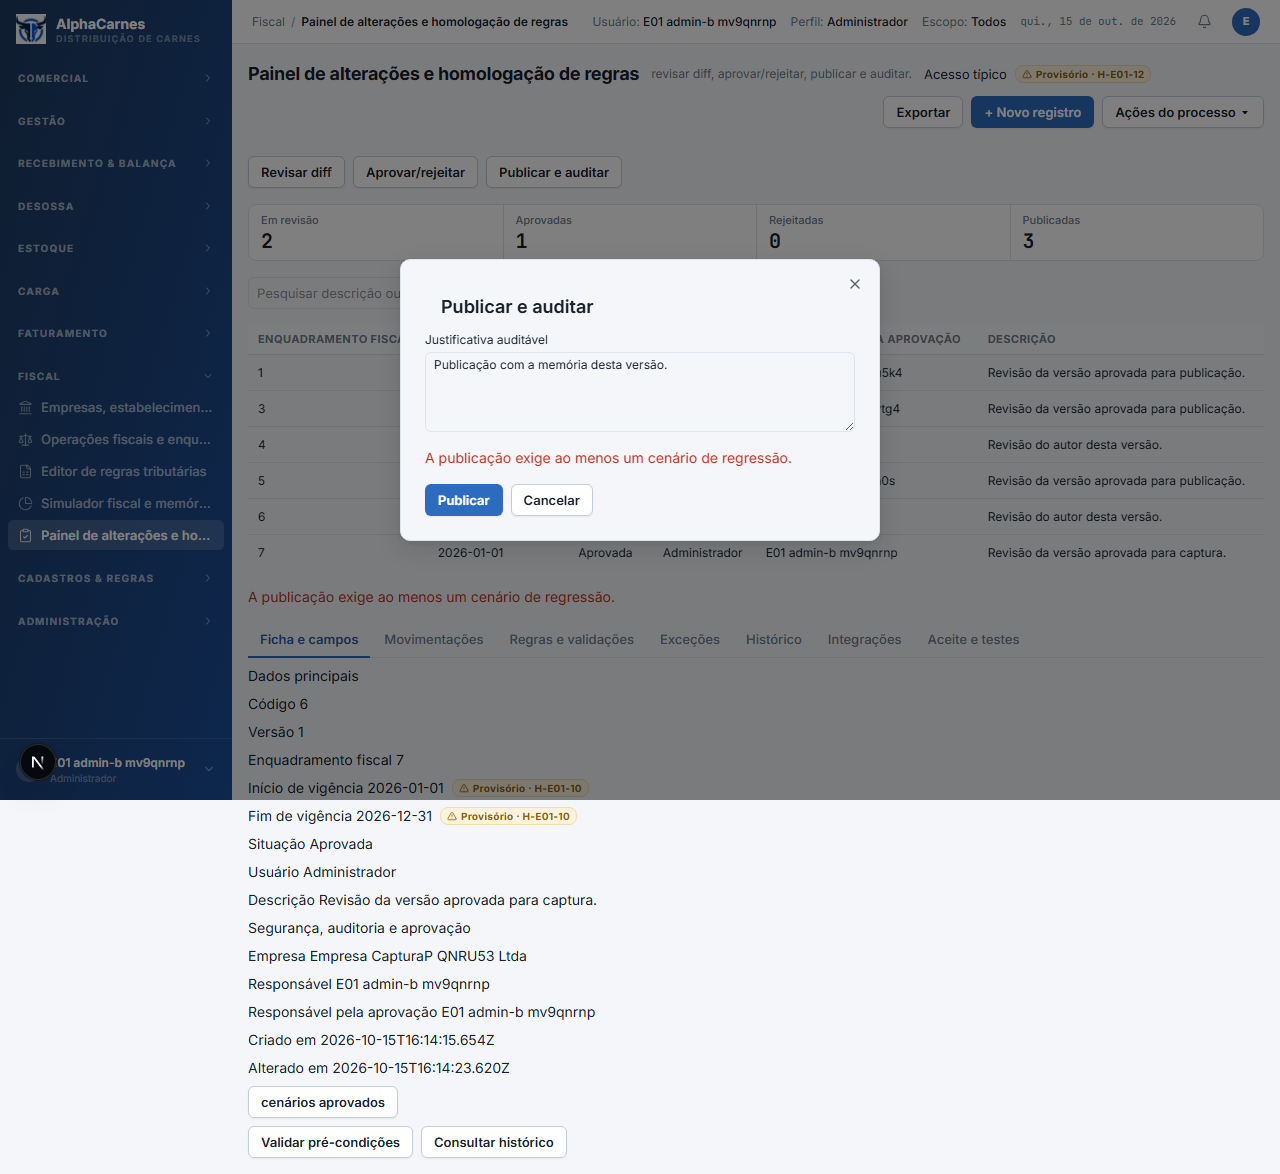
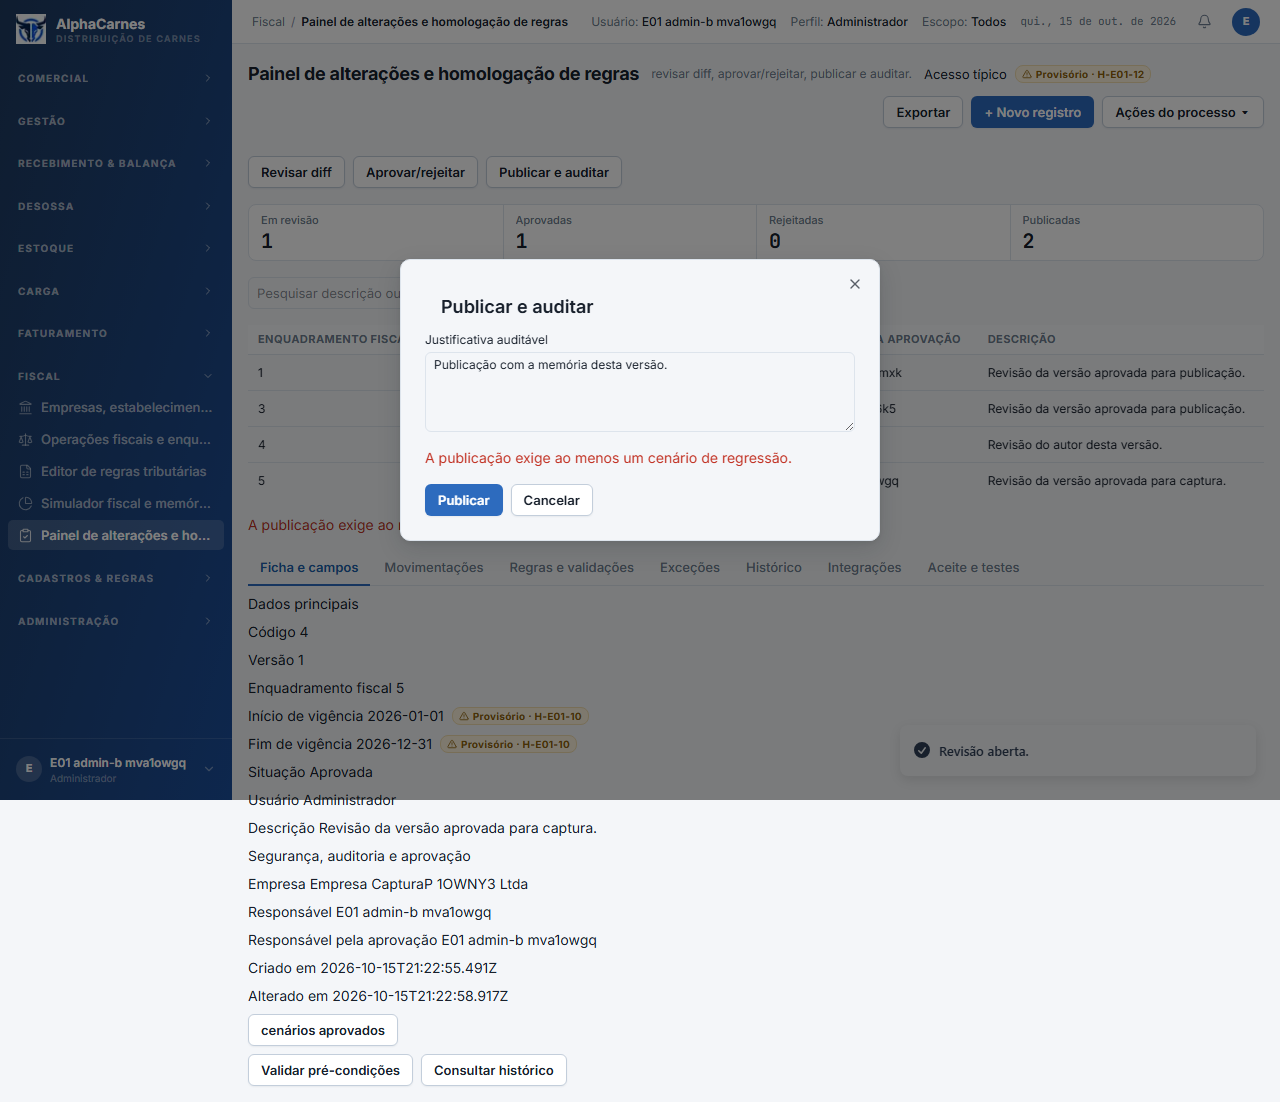
test(e01-t05): oculta indicador do next dev nas evidências e regera os PNG
### Descrição Detalhada:
O spec de captura injeta `nextjs-portal { display: none }` antes de cada screenshot e os 16
PNG app-* foram regerados. Os 9 prototipo-* não mudaram.

### Motivo da Mudança:
As evidências app-*.png mostravam o indicador "N" do next dev (achado menor da revisão).

### Impacto:
Somente evidências visuais e o spec de captura; nenhum código de produto alterado.

diff --git a/app/frontend/e2e/capture-e01-t05-evidencias.spec.ts b/app/frontend/e2e/capture-e01-t05-evidencias.spec.ts
@@ -80,6 +80,8 @@ const painel = (page: Page): Locator => page.getByRole('tabpanel');
 async function capturar(page: Page, arquivo: string, chave: Locator): Promise<void> {
   await expect(chave, `elemento-chave ausente antes de ${arquivo}`).toBeVisible({ timeout: 30_000 });
   await chave.scrollIntoViewIfNeeded();
+  // Oculta o indicador do `next dev` (portal "N") sem alterar o produto.
+  await page.addStyleTag({ content: 'nextjs-portal { display: none !important; }' });
   await page.screenshot({ path: path.join(OUT_DIR, arquivo), fullPage: true });
 }
 
